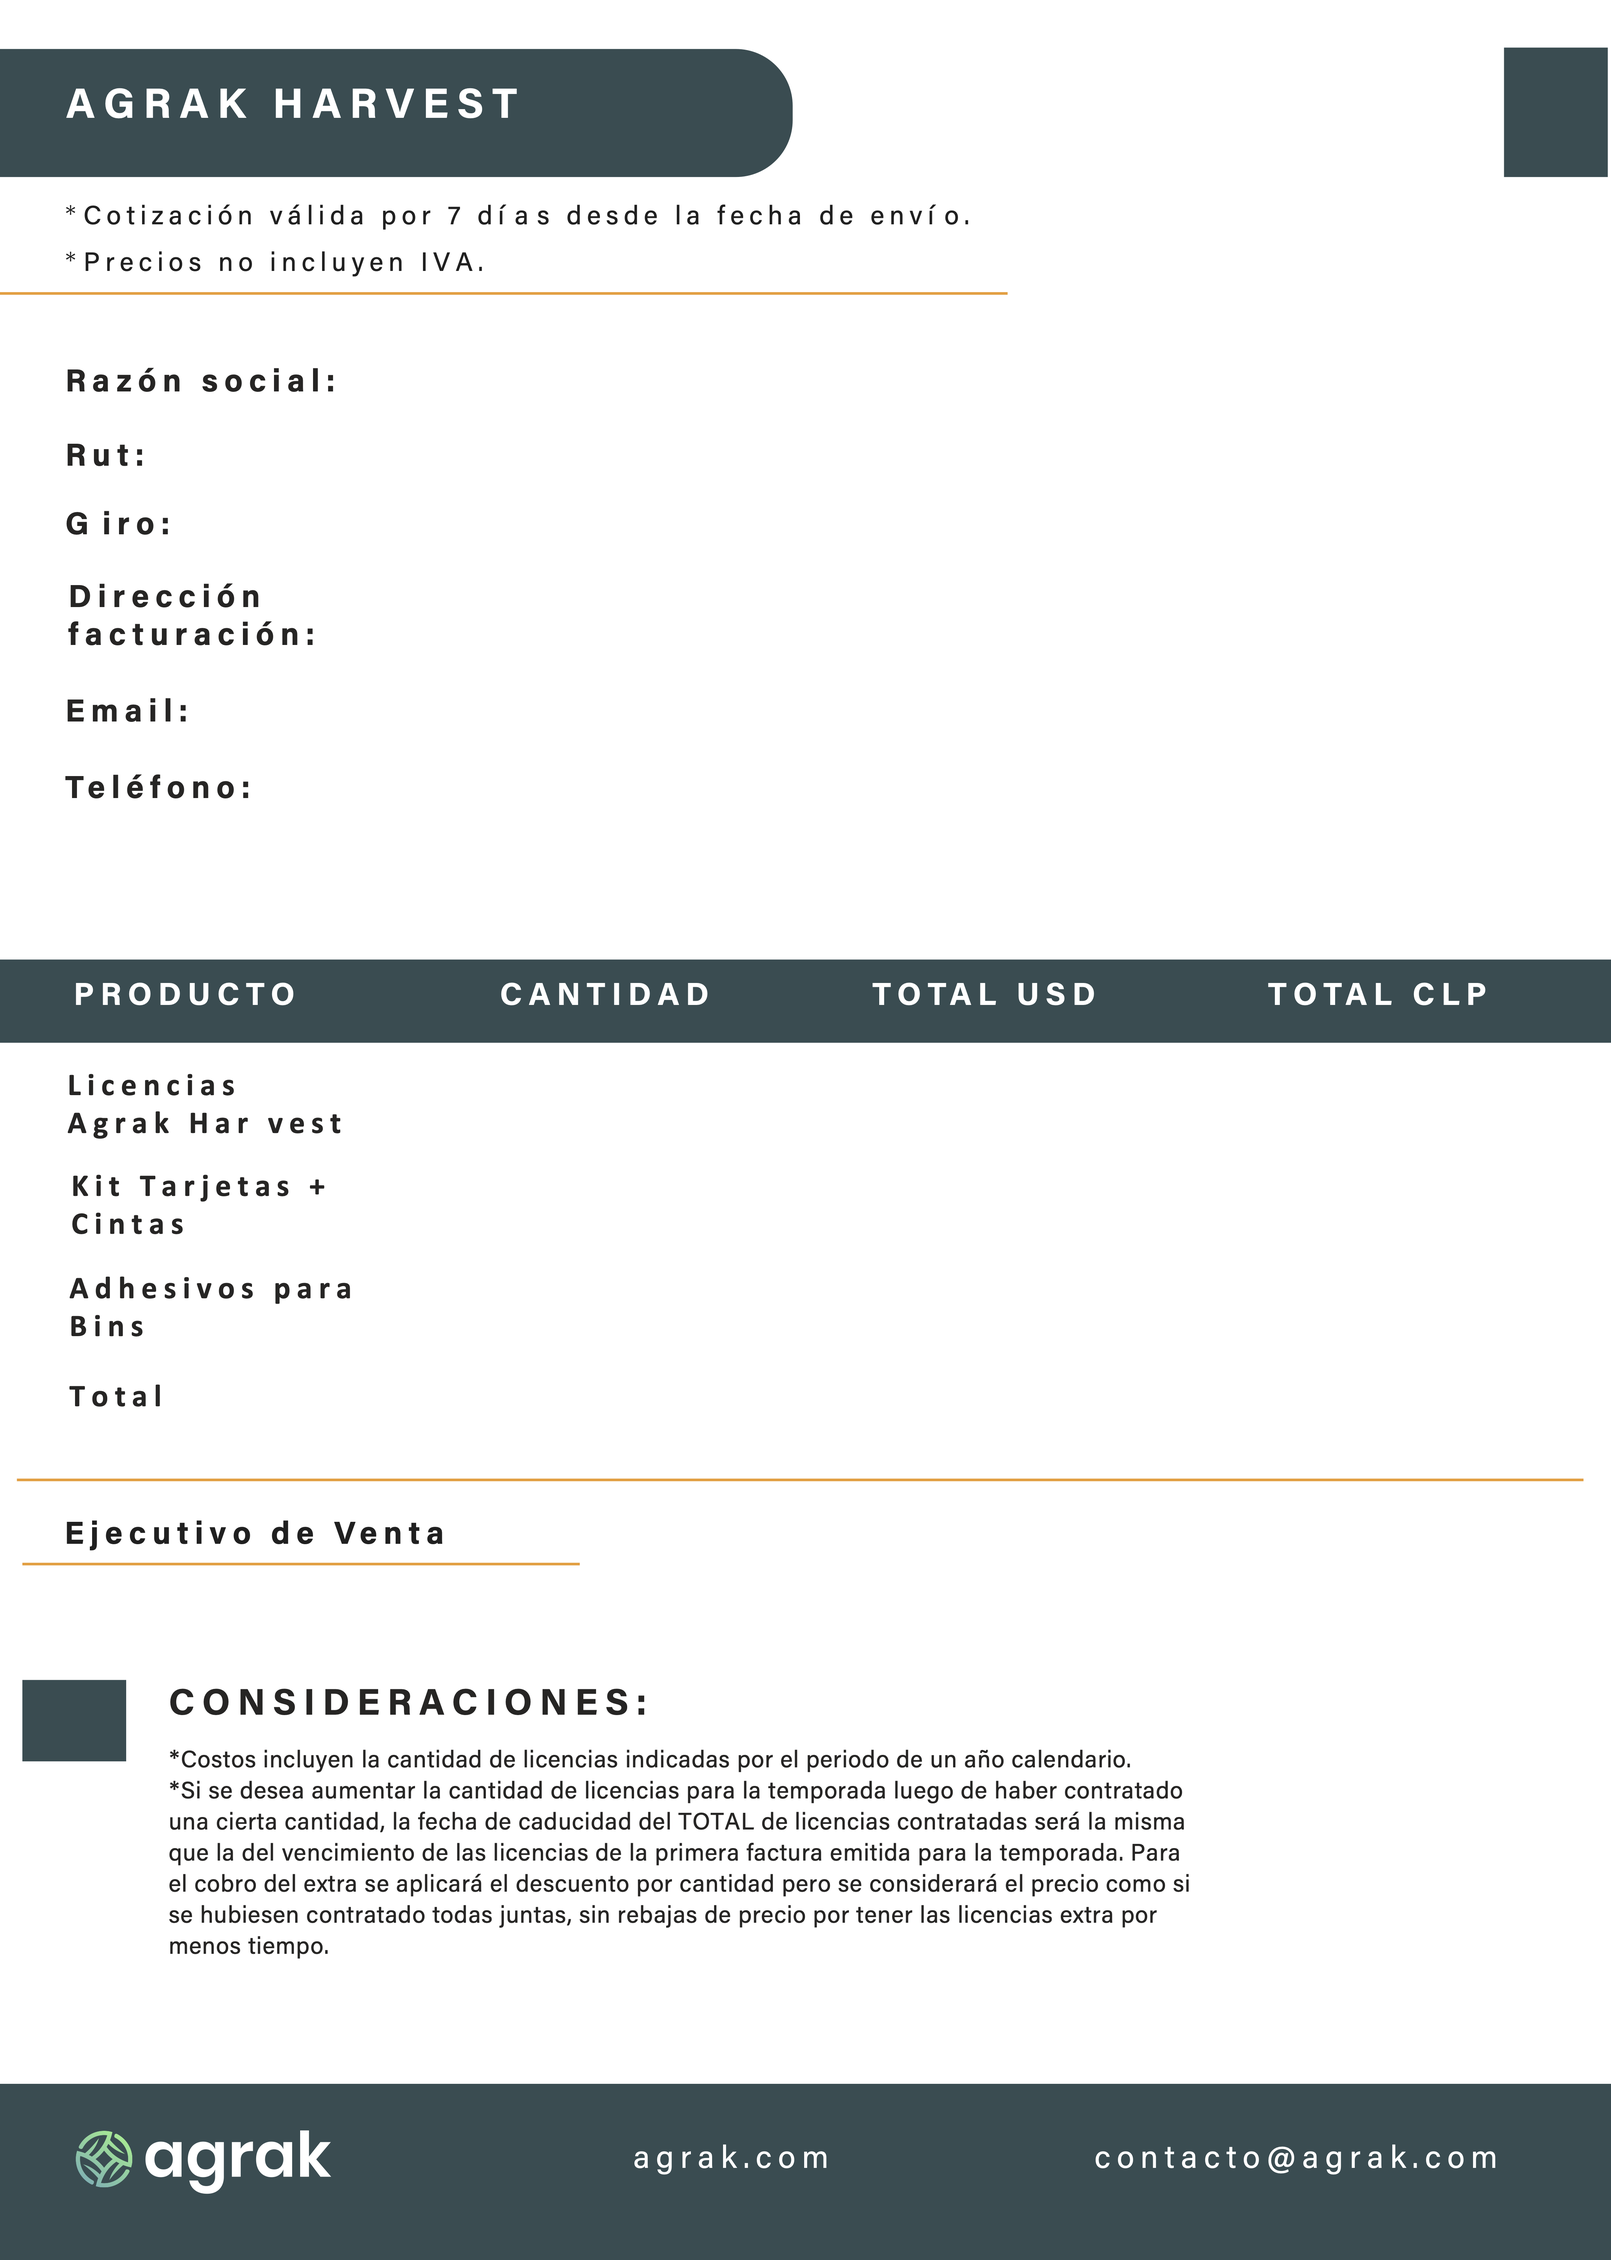
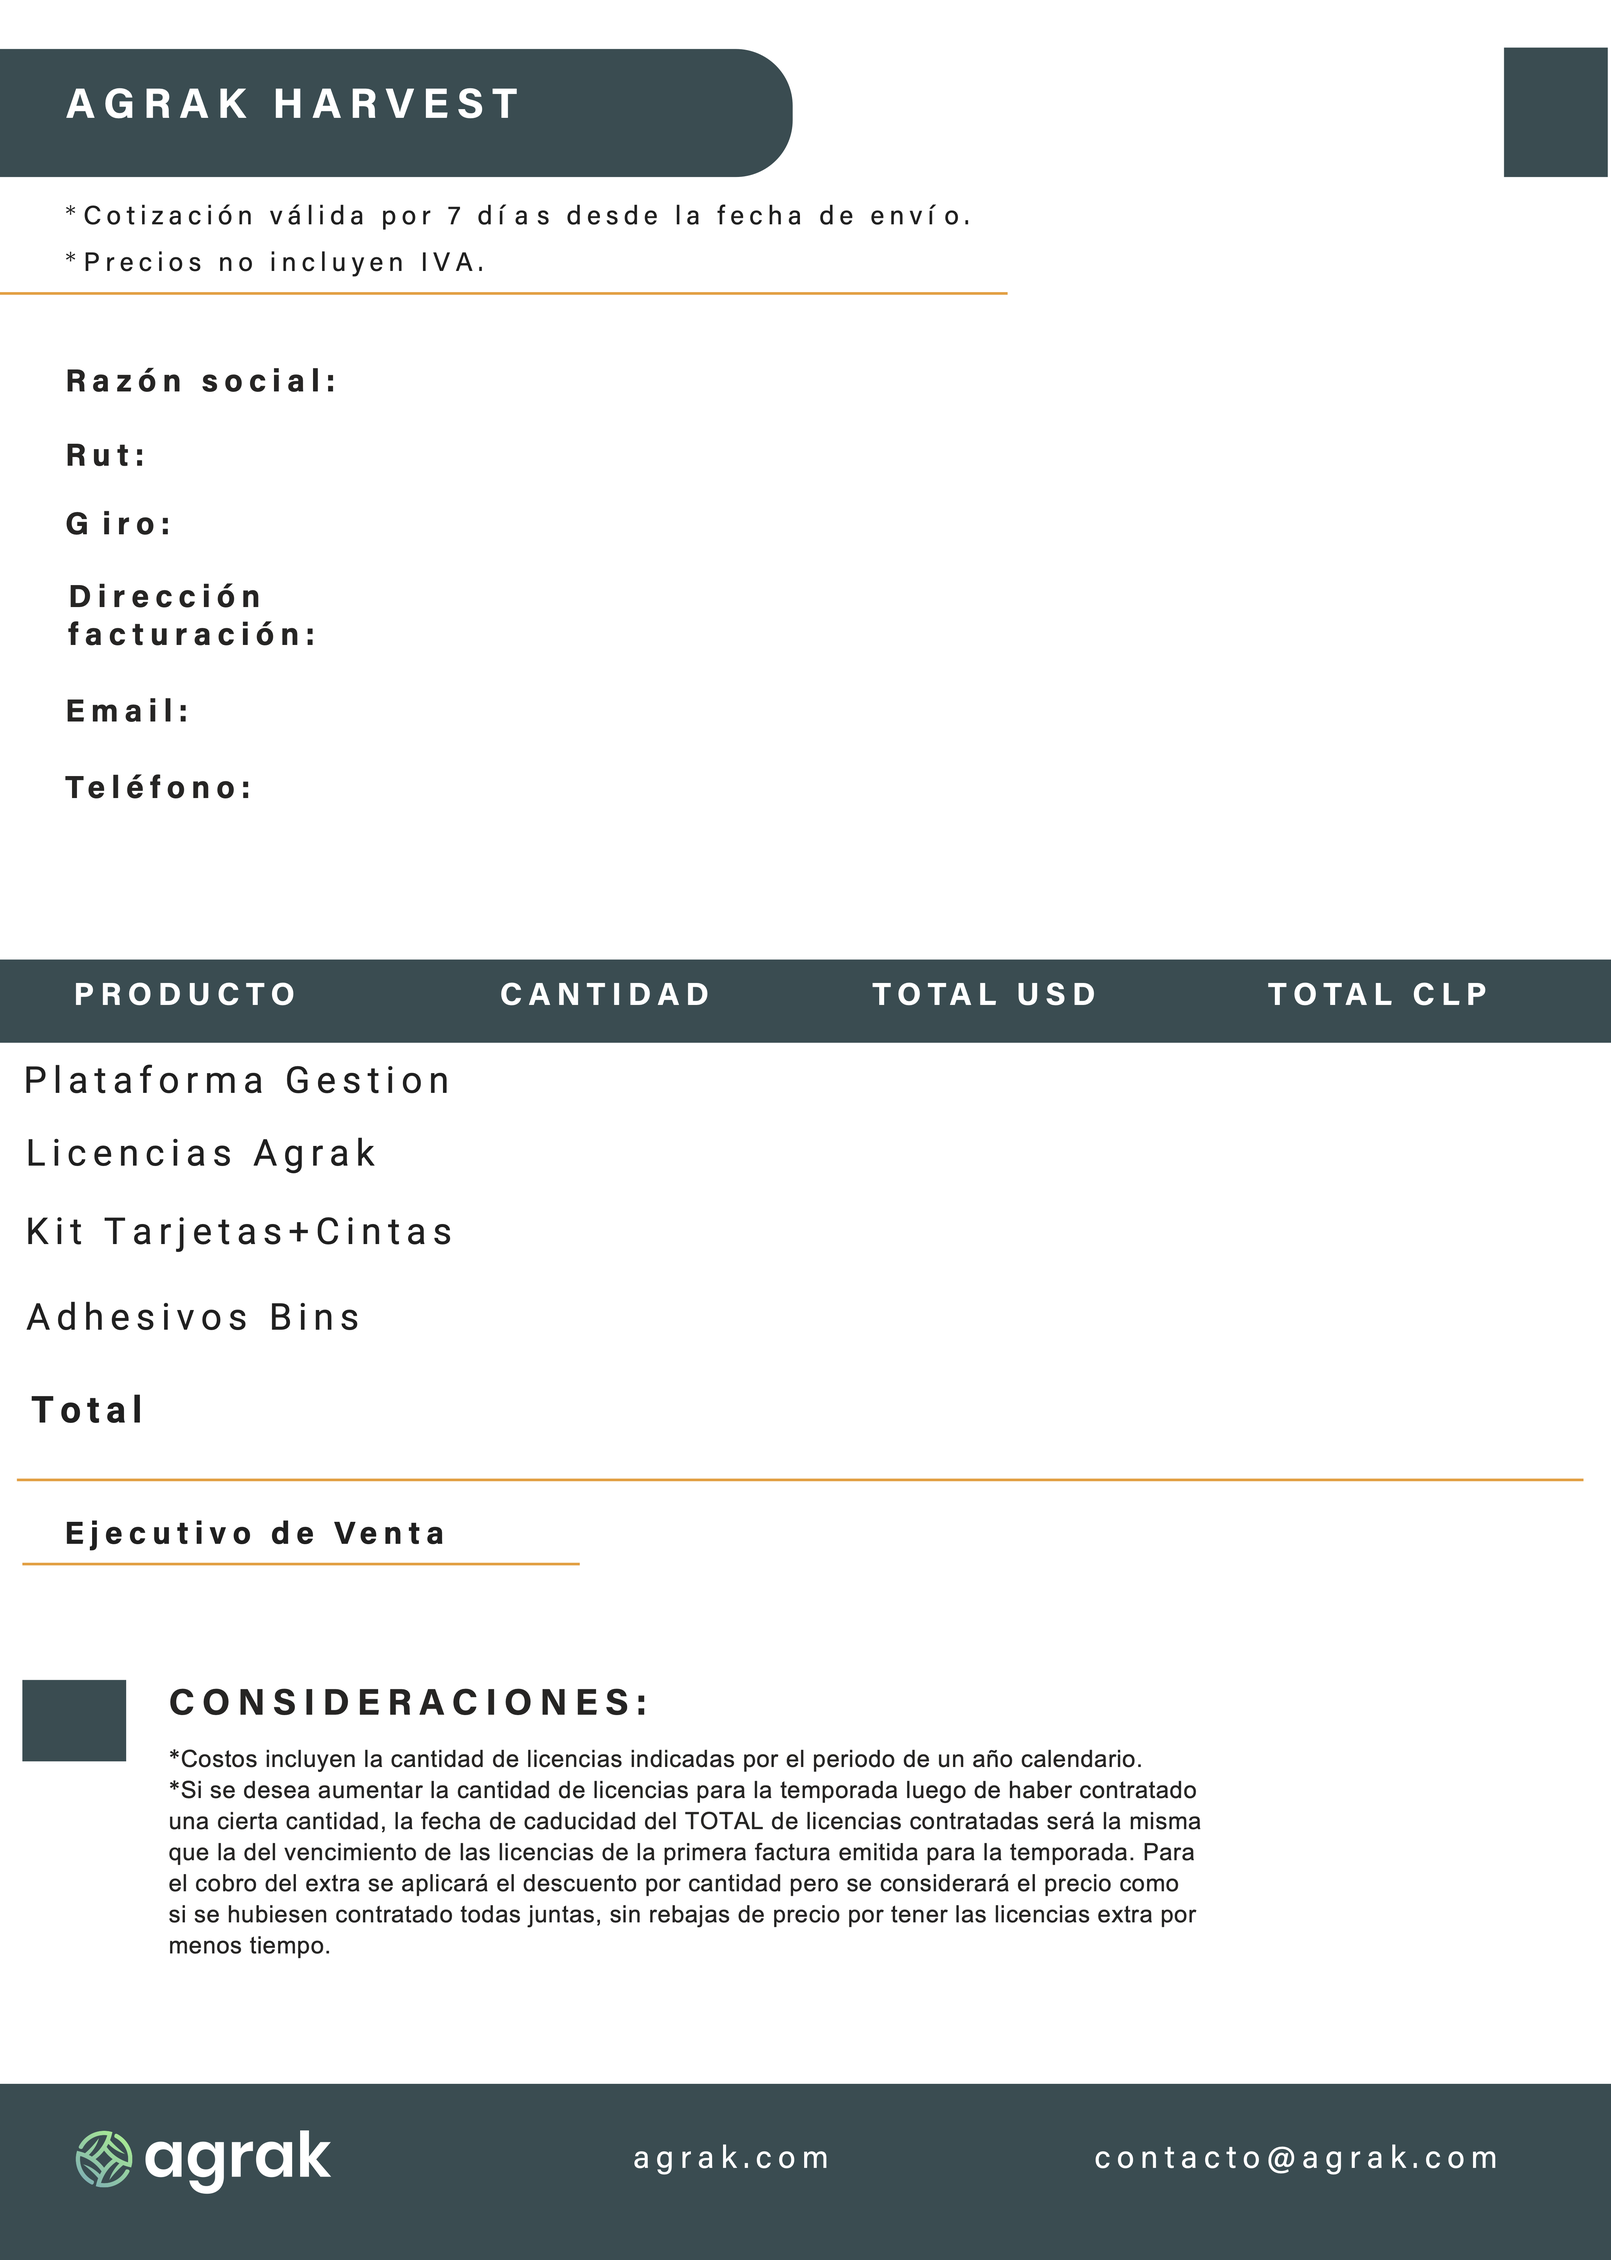
incluye plataforma

diff --git a/src/components/PDFFile.js b/src/components/PDFFile.js
@@ -30,6 +30,12 @@ const styles = StyleSheet.create({
     textAlign: "justify",
     fontWeight: 'bold',
   },
+  textito: {
+    margin: 8,
+    fontSize: 6,
+    textAlign: "justify",
+    fontWeight: 'bold',
+  },
   header: {
     fontSize: 8,
     marginBottom: 8,
@@ -75,30 +81,44 @@ const styles = StyleSheet.create({
                   {props.datos.telefono}
                 </Text>
 
-                <Text style={[{ position: 'absolute', top: 388, left: 210 }, styles.text]}>
+                <Text style={[{ position: 'absolute', top: 380, left: 210 }, styles.text]}>
+                  {'01'}
+                </Text>
+                <Text style={[{ position: 'absolute', top: 380, left: 330 }, styles.text]}>
+                  {formatearNumero(props.datos.plataformaTotal)}
+                </Text>
+                <Text style={[{ position: 'absolute', top: 380, left: 465 }, styles.text]}>
+                {'$'+formatearNumero(parseInt(props.datos.plataformaTotal)*parseInt(props.datos.dolar))}
+                </Text>
+
+
+                <Text style={[{ position: 'absolute', top: 407, left: 210 }, styles.text]}>
                   {props.datos.licenciasCantidad}
                 </Text>
-                <Text style={[{ position: 'absolute', top: 388, left: 330 }, styles.text]}>
+                <Text style={[{ position: 'absolute', top: 407, left: 330 }, styles.text]}>
                   {formatearNumero(props.datos.licenciasTotal)}
                 </Text>
-                <Text style={[{ position: 'absolute', top: 424, left: 210 }, styles.text]}>
+                <Text style={[{ position: 'absolute', top: 435, left: 210 }, styles.text]}>
                   {props.datos.kitCantidad}
                 </Text>
-                <Text style={[{ position: 'absolute', top: 424, left: 465 }, styles.text]}>
+                <Text style={[{ position: 'absolute', top: 435, left: 465 }, styles.text]}>
                   {'$'+ formatearNumero(parseInt(props.datos.kitTotal)*parseInt(props.datos.kitCantidad))}
                 </Text>
-                <Text style={[{ position: 'absolute', top: 463, left: 210 }, styles.text]}>
+                <Text style={[{ position: 'absolute', top: 467, left: 210 }, styles.text]}>
                   {formatearNumero(props.datos.adhesivosCantidad)}
                 </Text>
-                <Text style={[{ position: 'absolute', top: 463, left: 465 }, styles.text]}>
+                <Text style={[{ position: 'absolute', top: 467, left: 465 }, styles.text]}>
                   {'$'+ formatearNumero(parseInt(props.datos.adhesivosTotal)*parseInt(props.datos.adhesivosCantidad))}
                 </Text>
   
                 <Text style={[{ position: 'absolute', top: 492, left: 465 }, styles.text]}>
-                  {'$'+formatearNumero(parseInt(props.datos.kitTotal) + parseInt(props.datos.adhesivosTotal)+parseInt(props.datos.licenciasTotal)*parseInt(props.datos.dolar))}
+                  {'$'+formatearNumero(parseInt(props.datos.kitTotal)*parseInt(props.datos.kitCantidad) + parseInt(props.datos.adhesivosTotal)*parseInt(props.datos.adhesivosCantidad)+parseInt(props.datos.licenciasTotal)*parseInt(props.datos.dolar)+parseInt(props.datos.plataformaTotal)*parseInt(props.datos.dolar))}
                 </Text>
-                <Text style={[{ position: 'absolute', top: 386, left: 465 }, styles.text]}>
+                <Text style={[{ position: 'absolute', top: 407, left: 465 }, styles.text]}>
                   {'$'+formatearNumero(parseInt(props.datos.licenciasTotal)*parseInt(props.datos.dolar))}
+                </Text>
+                <Text style={[{ position: 'absolute', top: 520, left: 465 }, styles.textito]}>
+                  {'*Precios no incluyen IVA'}
                 </Text>
 
                 <Text style={[{ position: 'absolute', top: 570, left: 17 }, styles.text]}>

diff --git a/src/components/form.js b/src/components/form.js
@@ -25,6 +25,7 @@ function Formulario(props) {
   const [kitTotal, setKitTotal] = useState('');
   const [adhesivosCantidad, setAdhesivosCantidad] = useState('');
   const [adhesivosTotal, setAdhesivosTotal] = useState('');
+  const [plataformaTotal, setPlataformaTotal] = useState('');
 
   const handleChangeRut = (e) => {
     const newRutLimpio = chileanRut.unformat(e.target.value);
@@ -86,6 +87,7 @@ function Formulario(props) {
       kitTotal,
       adhesivosCantidad,
       adhesivosTotal,
+      plataformaTotal,
     });
   };
 
@@ -169,6 +171,12 @@ return (
           <div className="input-cuadrado">
             <label>Precio unitario adhesivos:</label>
             <input type="number" defaultValue={0} value={adhesivosTotal} onChange={(e) => setAdhesivosTotal(e.target.value)} />
+          </div>
+        </div>
+        <div className="grupo">
+          <div className="input-cuadrado">
+            <label>Precio Plataforma Agrak:</label>
+            <input type="number" defaultValue={0} value={plataformaTotal} onChange={(e) => setPlataformaTotal(e.target.value)} />
           </div>
         </div>
     </div>

diff --git a/src/components/form.css b/src/components/form.css
@@ -15,7 +15,7 @@ label {
     outline: none;
     width: 100%;
   }
-  
+
   input:focus {
     box-shadow: 1px 1px 5px rgba(0, 0, 0, 0.3);
   }
